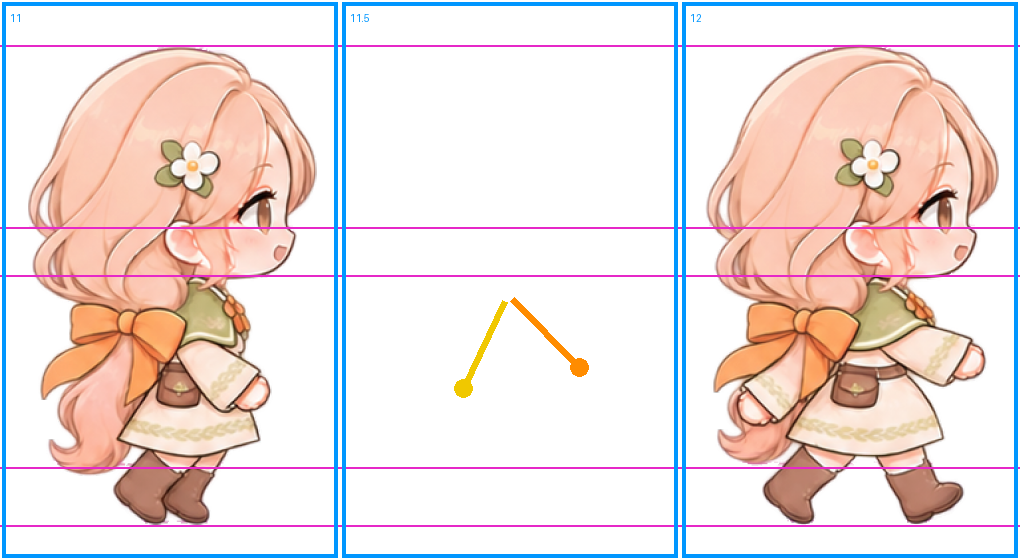
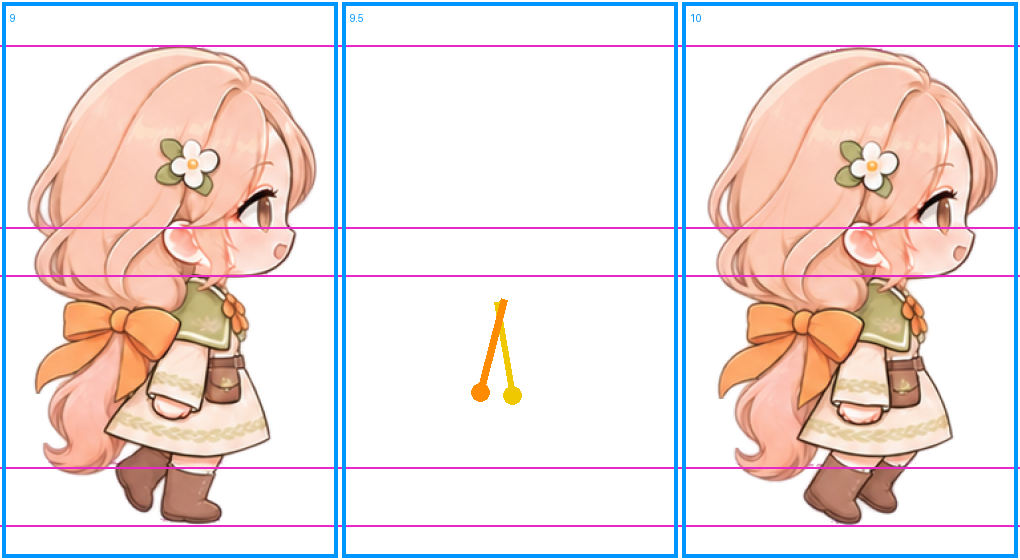
docs: 아리아 v9 사이 한 장을 9·10번 사이로 정정(사용자)
Claude-Session: https://claude.ai/code/session_012DFmYRntmyYRtXq4JsKkmi

diff --git a/docs/characters/걷기_v7_GPT복사용.md b/docs/characters/걷기_v7_GPT복사용.md
@@ -230,23 +230,23 @@ v9: 같은 가이드(`가이드_걷기_v8.png`)에 **장마다 팔 위치를 글
 ```
 받으면 기획이 12장 그대로 3바퀴 GIF로 — 특히 12→1 팔과, 6장마다 앞 부츠가 바뀌는지 확인.
 
-## 아리아 v9 사이 한 장 — 11번과 12번 사이 (사용자 11-26 v9: '팔이 뒤로 갔다가 첫 걸음 시작으로 돌아올 때가 이상')
+## 아리아 v9 사이 한 장 — 9번과 10번 사이 (사용자 11-26 v9: '팔이 뒤로 갔다가 첫 걸음 시작으로 돌아올 때가 이상')
 
-원인: 보는 쪽 팔이 9·10·11번에선 아래로 늘어져 있다가 **12번에서 한 번에 앞으로 수평**까지 뻗음(뒤 → 앞으로 돌아오는 구간이 11→12 한 장에 몰림). 12·1·2·3은 앞으로 쭉 뻗은 상태.
-고침: 11번과 12번 사이에 팔이 비스듬히 앞(45°쯤)인 한 장을 끼움 — 지난번 이음새 한 장처럼 **첨부 한 장만**.
+원인(사용자 11-26 정정 — '손이 뒤로 갔다가 가운데로 올 때'): 보는 쪽 팔이 6·7·8·9번에서 뒤에 있다가 **10번에서 한 번에 몸 가운데(가방 앞)**로 옴 — 9→10에서 손이 크게 이동. (처음엔 11→12로 잘못 짚음.)
+고침: 9번과 10번 사이에 손이 몸 옆 조금 뒤인 한 장을 끼움 — 지난번 이음새 한 장처럼 **첨부 한 장만**.
 
-첨부 **한 장만**: `아리아/SD/가이드_걷기_v9_사이.png`(왼쪽 = v9 11번, 오른쪽 = v9 12번, 가운데 빈 칸) → 저장 `아리아/SD/아리아_걷기_v9_사이.png` — **새 대화**
+첨부 **한 장만**: `아리아/SD/가이드_걷기_v9_사이.png`(왼쪽 = v9 9번, 오른쪽 = v9 10번, 가운데 빈 칸) → 저장 `아리아/SD/아리아_걷기_v9_사이.png` — **새 대화**
 
 ```
 첨부한 그림 한 장을 그대로 바탕으로 써서, 비어 있는 가운데 칸에만 그림을 그려줘(새 그림판을 만들거나 칸 수를 바꾸지 마 — 칸은 딱 3개).
-이 그림은 걷기 애니메이션의 두 장면 사이를 채우는 가이드야. 왼쪽 칸은 11번 장면, 오른쪽 칸은 바로 다음 12번 장면이고, 가운데 칸이 비어 있어.
-가운데 칸에 11번과 12번의 딱 중간 장면 한 장을 그려줘. 옷·그림체는 양옆 그림과 똑같이.
+이 그림은 걷기 애니메이션의 두 장면 사이를 채우는 가이드야. 왼쪽 칸은 9번 장면, 오른쪽 칸은 바로 다음 10번 장면이고, 가운데 칸이 비어 있어.
+가운데 칸에 9번과 10번의 딱 중간 장면 한 장을 그려줘. 옷·그림체는 양옆 그림과 똑같이.
 
-[가운데 장면 — 11번과 12번의 정확히 중간]
-- 보는 쪽 팔: 11번(아래로 늘어짐)과 12번(앞으로 수평) 사이 — 주황 선처럼 비스듬히 앞 아래(45도쯤), 손은 주황 동그라미 위치. 소매가 어깨에서 자연스럽게 이어지게
+[가운데 장면 — 9번과 10번의 정확히 중간]
+- 보는 쪽 팔: 9번(손이 몸 뒤쪽)과 10번(손이 몸 가운데, 가방 앞) 사이 — 주황 선처럼 손이 몸 옆 조금 뒤, 주황 동그라미 위치. 소매가 어깨에서 자연스럽게 이어지게, 손이 가방보다 앞인지 뒤인지는 9번과 10번 중 가까운 쪽처럼
 - 먼 쪽 팔: 노랑 선 위치(몸 뒤쪽, 소매 끝·손만 보여도 됨)
-- 다리·부츠: 11번과 12번의 중간 자세, 두 다리는 같은 색·같은 명암
-- 주황 리본, 머리카락 끝, 치마 밑단 모양도 11번과 12번의 중간
+- 다리·부츠: 9번과 10번의 중간 자세, 두 다리는 같은 색·같은 명암
+- 주황 리본, 머리카락 끝, 치마 밑단 모양도 9번과 10번의 중간
 - 몸 높이도 중간(분홍 선 기준: 머리 끝 / 눈 / 턱 / 치마 끝 / 바닥)
 - 얼굴·표정·머리 크기·옷·색감·선 굵기는 양옆 그림과 똑같이
 
@@ -254,4 +254,4 @@ v9: 같은 가이드(`가이드_걷기_v8.png`)에 **장마다 팔 위치를 글
 - 가이드와 같은 크기·같은 칸 배치로. 양옆 그림·선·파란 칸 테두리·번호는 남아 있어도 괜찮아(나중에 지움)
 - 배경은 진짜 투명(알파 채널) — 흰색이나 체크무늬로 칠하지 마
 ```
-받으면 11번 뒤에 끼운 13장(한 장 0.1초) GIF로 확인.
+받으면 9번 뒤에 끼운 13장(한 장 0.1초) GIF로 확인.

diff --git a/docs/characters/걷기_다시그리기.md b/docs/characters/걷기_다시그리기.md
@@ -150,3 +150,4 @@
 - 다리: 발 간격 1 233 → 4 81(지나감) → 7 220 → 9 105·11 100(지나감) → 12 199 → 1. 이웃 장 차이 0.12~0.36(같은 장 연달아 없음).
 - GIF `아리아/아리아_걷기_v9_제자리.gif`(12장 그대로, 한 장 0.11초).
 - 사용자 11-26 v9: '팔이 뒤로 갔다가 첫 걸음 시작으로 돌아올 때가 이상' — 9·10·11 팔 아래로 → **12에서 한 번에 앞으로 수평**(돌아오는 구간이 한 장에 몰림). 11과 12 사이 한 장(팔 45° 앞) 요청 — 가이드 `아리아/SD/가이드_걷기_v9_사이.png`, 첨부 한 장만.
+- 정정(사용자 11-26 '손이 뒤로 갔다가 가운데로 올 때가 이상'): 튀는 곳은 **9→10**(6~9 뒤 → 10 몸 가운데·가방 앞) — 사이 한 장 가이드를 9|빈칸|10으로 바꿈(같은 파일 이름).
